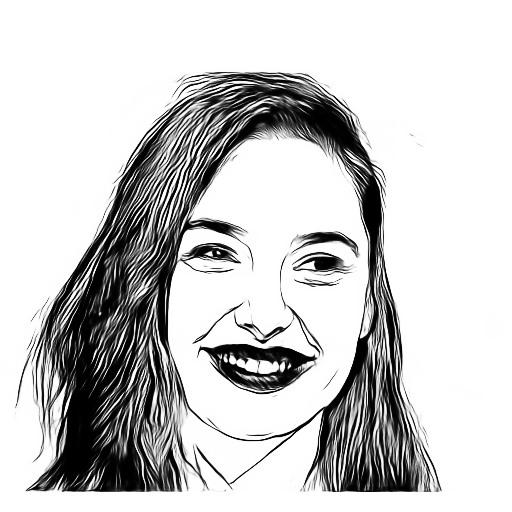
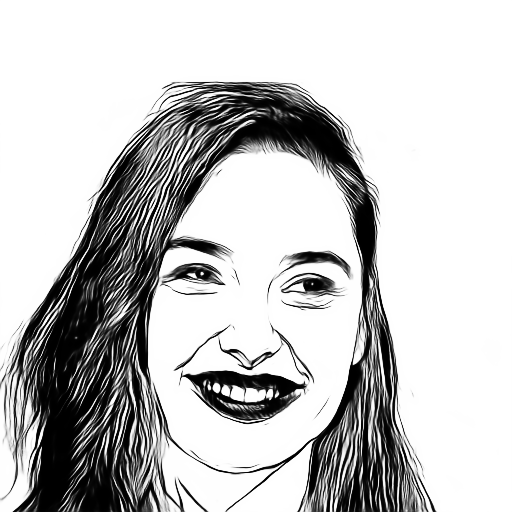
new

diff --git a/u2net_portrait_demo.py b/u2net_portrait_demo.py
@@ -39,26 +39,34 @@ def crop_face(img, face):
 
     # crop the face with a bigger bbox
     hmw = h - w
-    hpad = int(h/2)+1
-    wpad = int(w/2)+1
+    # hpad = int(h/2)+1
+    # wpad = int(w/2)+1
 
     l,r,t,b = 0,0,0,0
-    left = x-wpad
+    lpad = int(float(w)*0.4)
+    left = x-lpad
     if(left<0):
+        l = lpad-x
         left = 0
-        l = wpad-x
-    right = x+w+wpad
+
+    rpad = int(float(w)*0.4)
+    right = x+w+rpad
     if(right>width):
-        right = width
         r = right-width
-    top = y - hpad
+        right = width
+
+    tpad = int(float(h)*0.6)
+    top = y - tpad
     if(top<0):
+        t = tpad-y
         top = 0
-        t = hpad-y
-    bottom = y+h+int(hpad*0.5)
+
+    bpad  = int(float(h)*0.2)
+    bottom = y+h+bpad
     if(bottom>height):
-        bottom = height
         b = bottom-height
+        bottom = height
+
 
     im_face = img[top:bottom,left:right]
     if(len(im_face.shape)==2):
